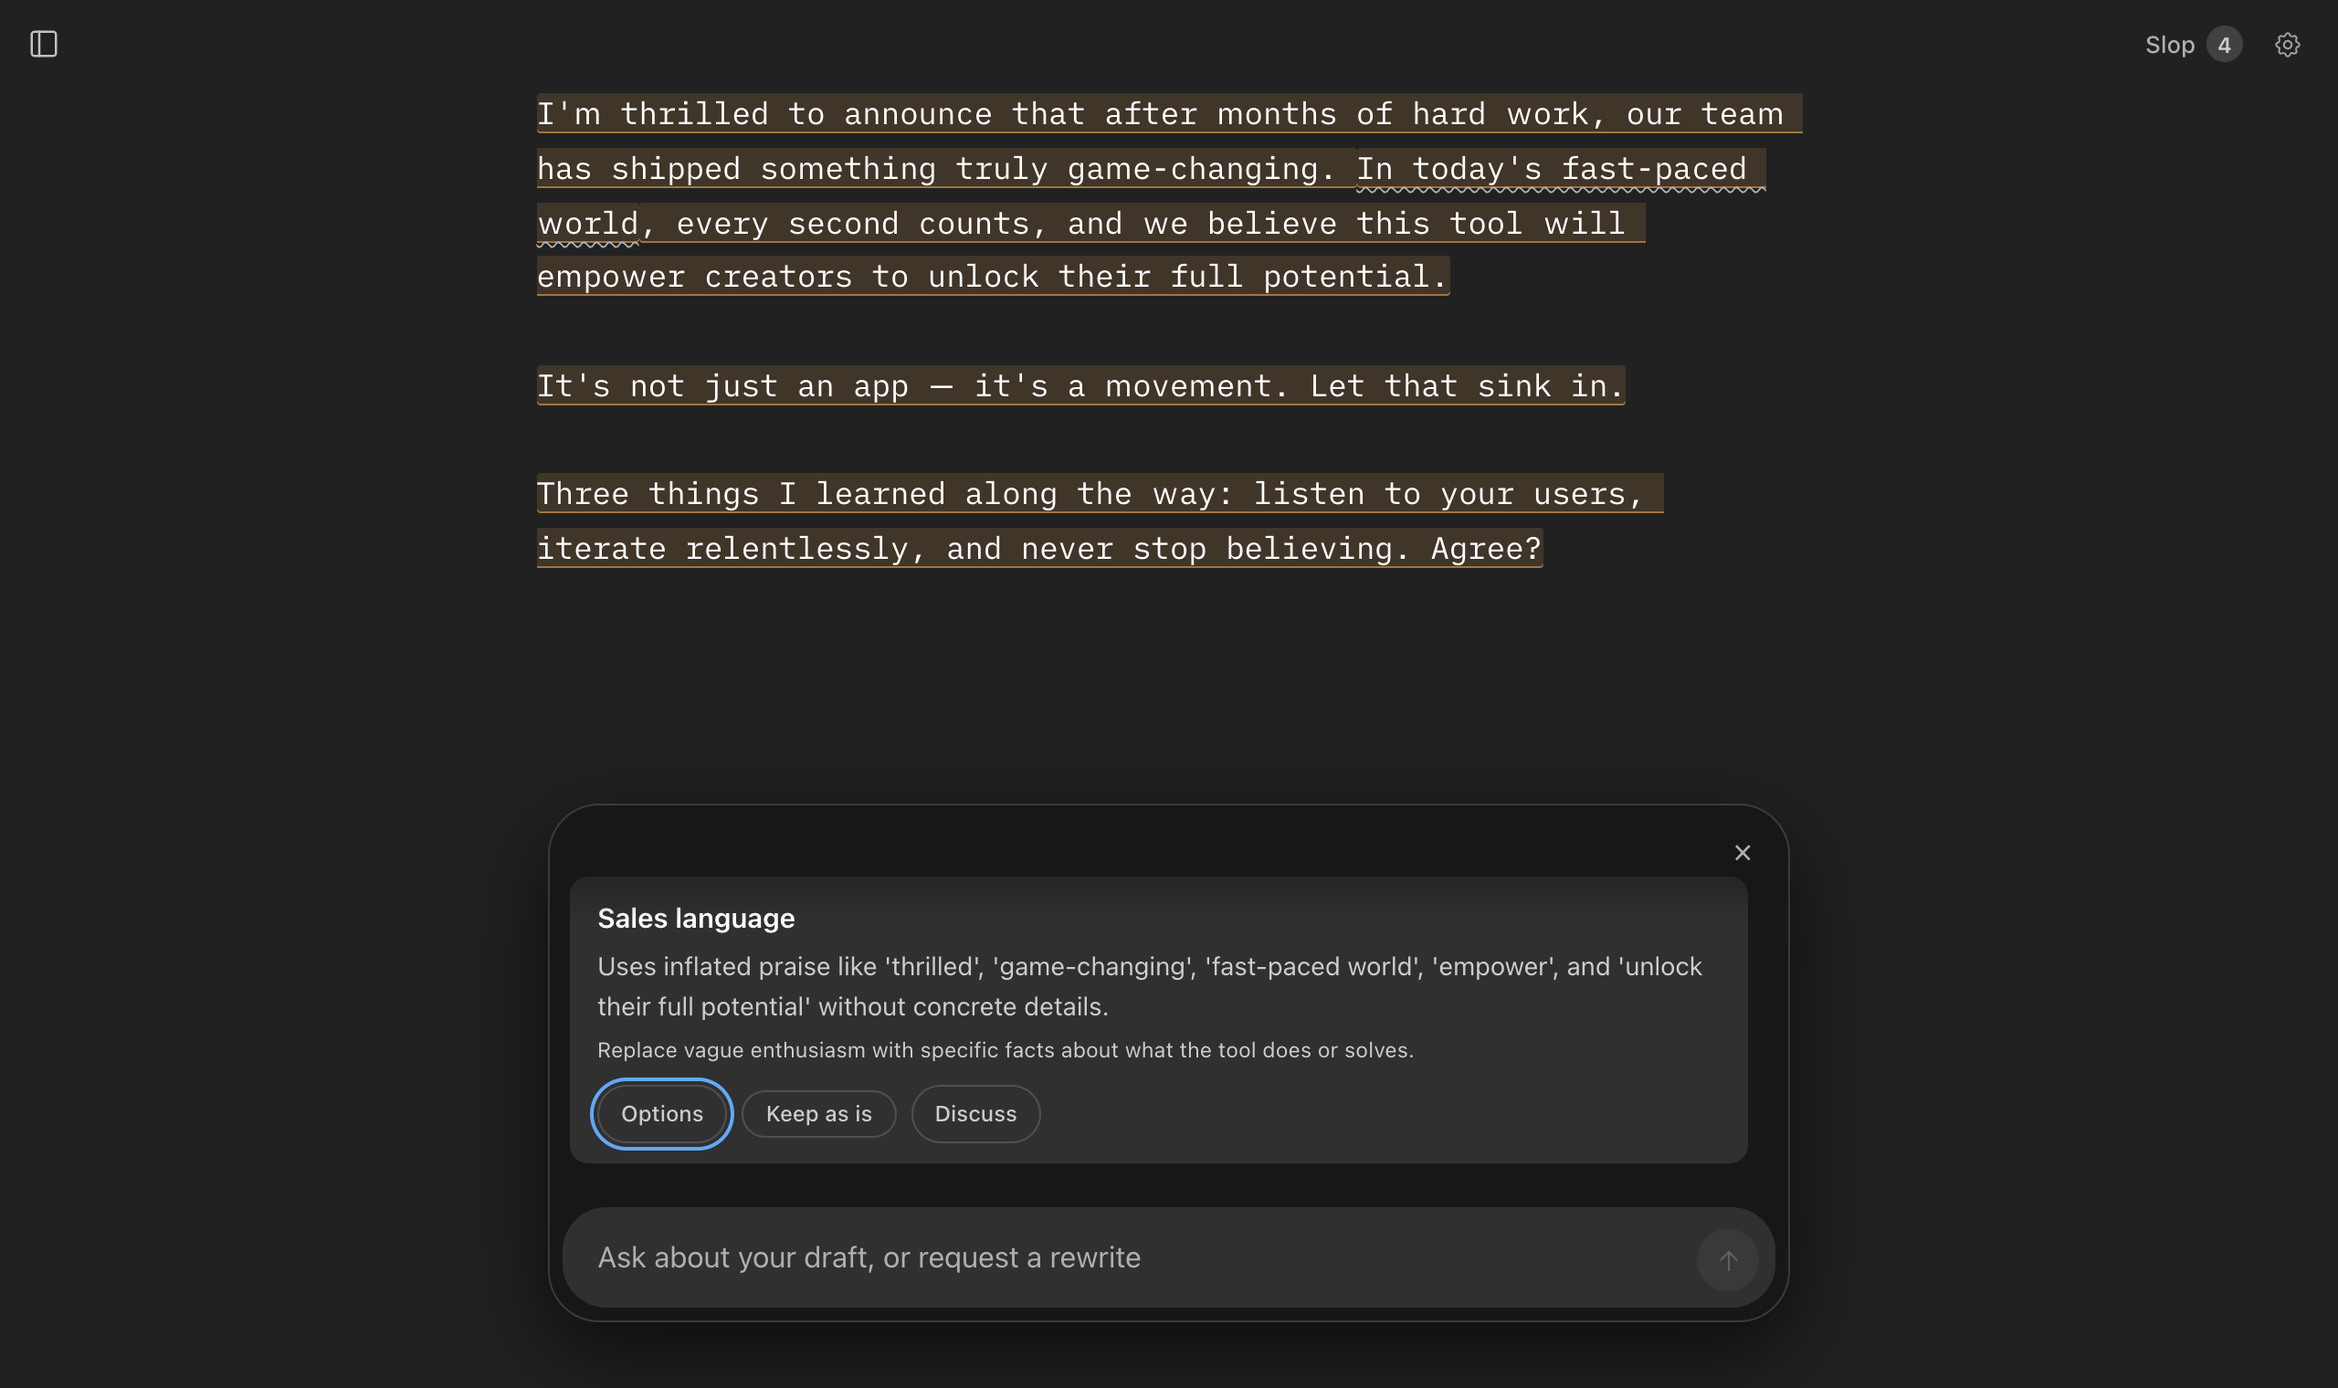
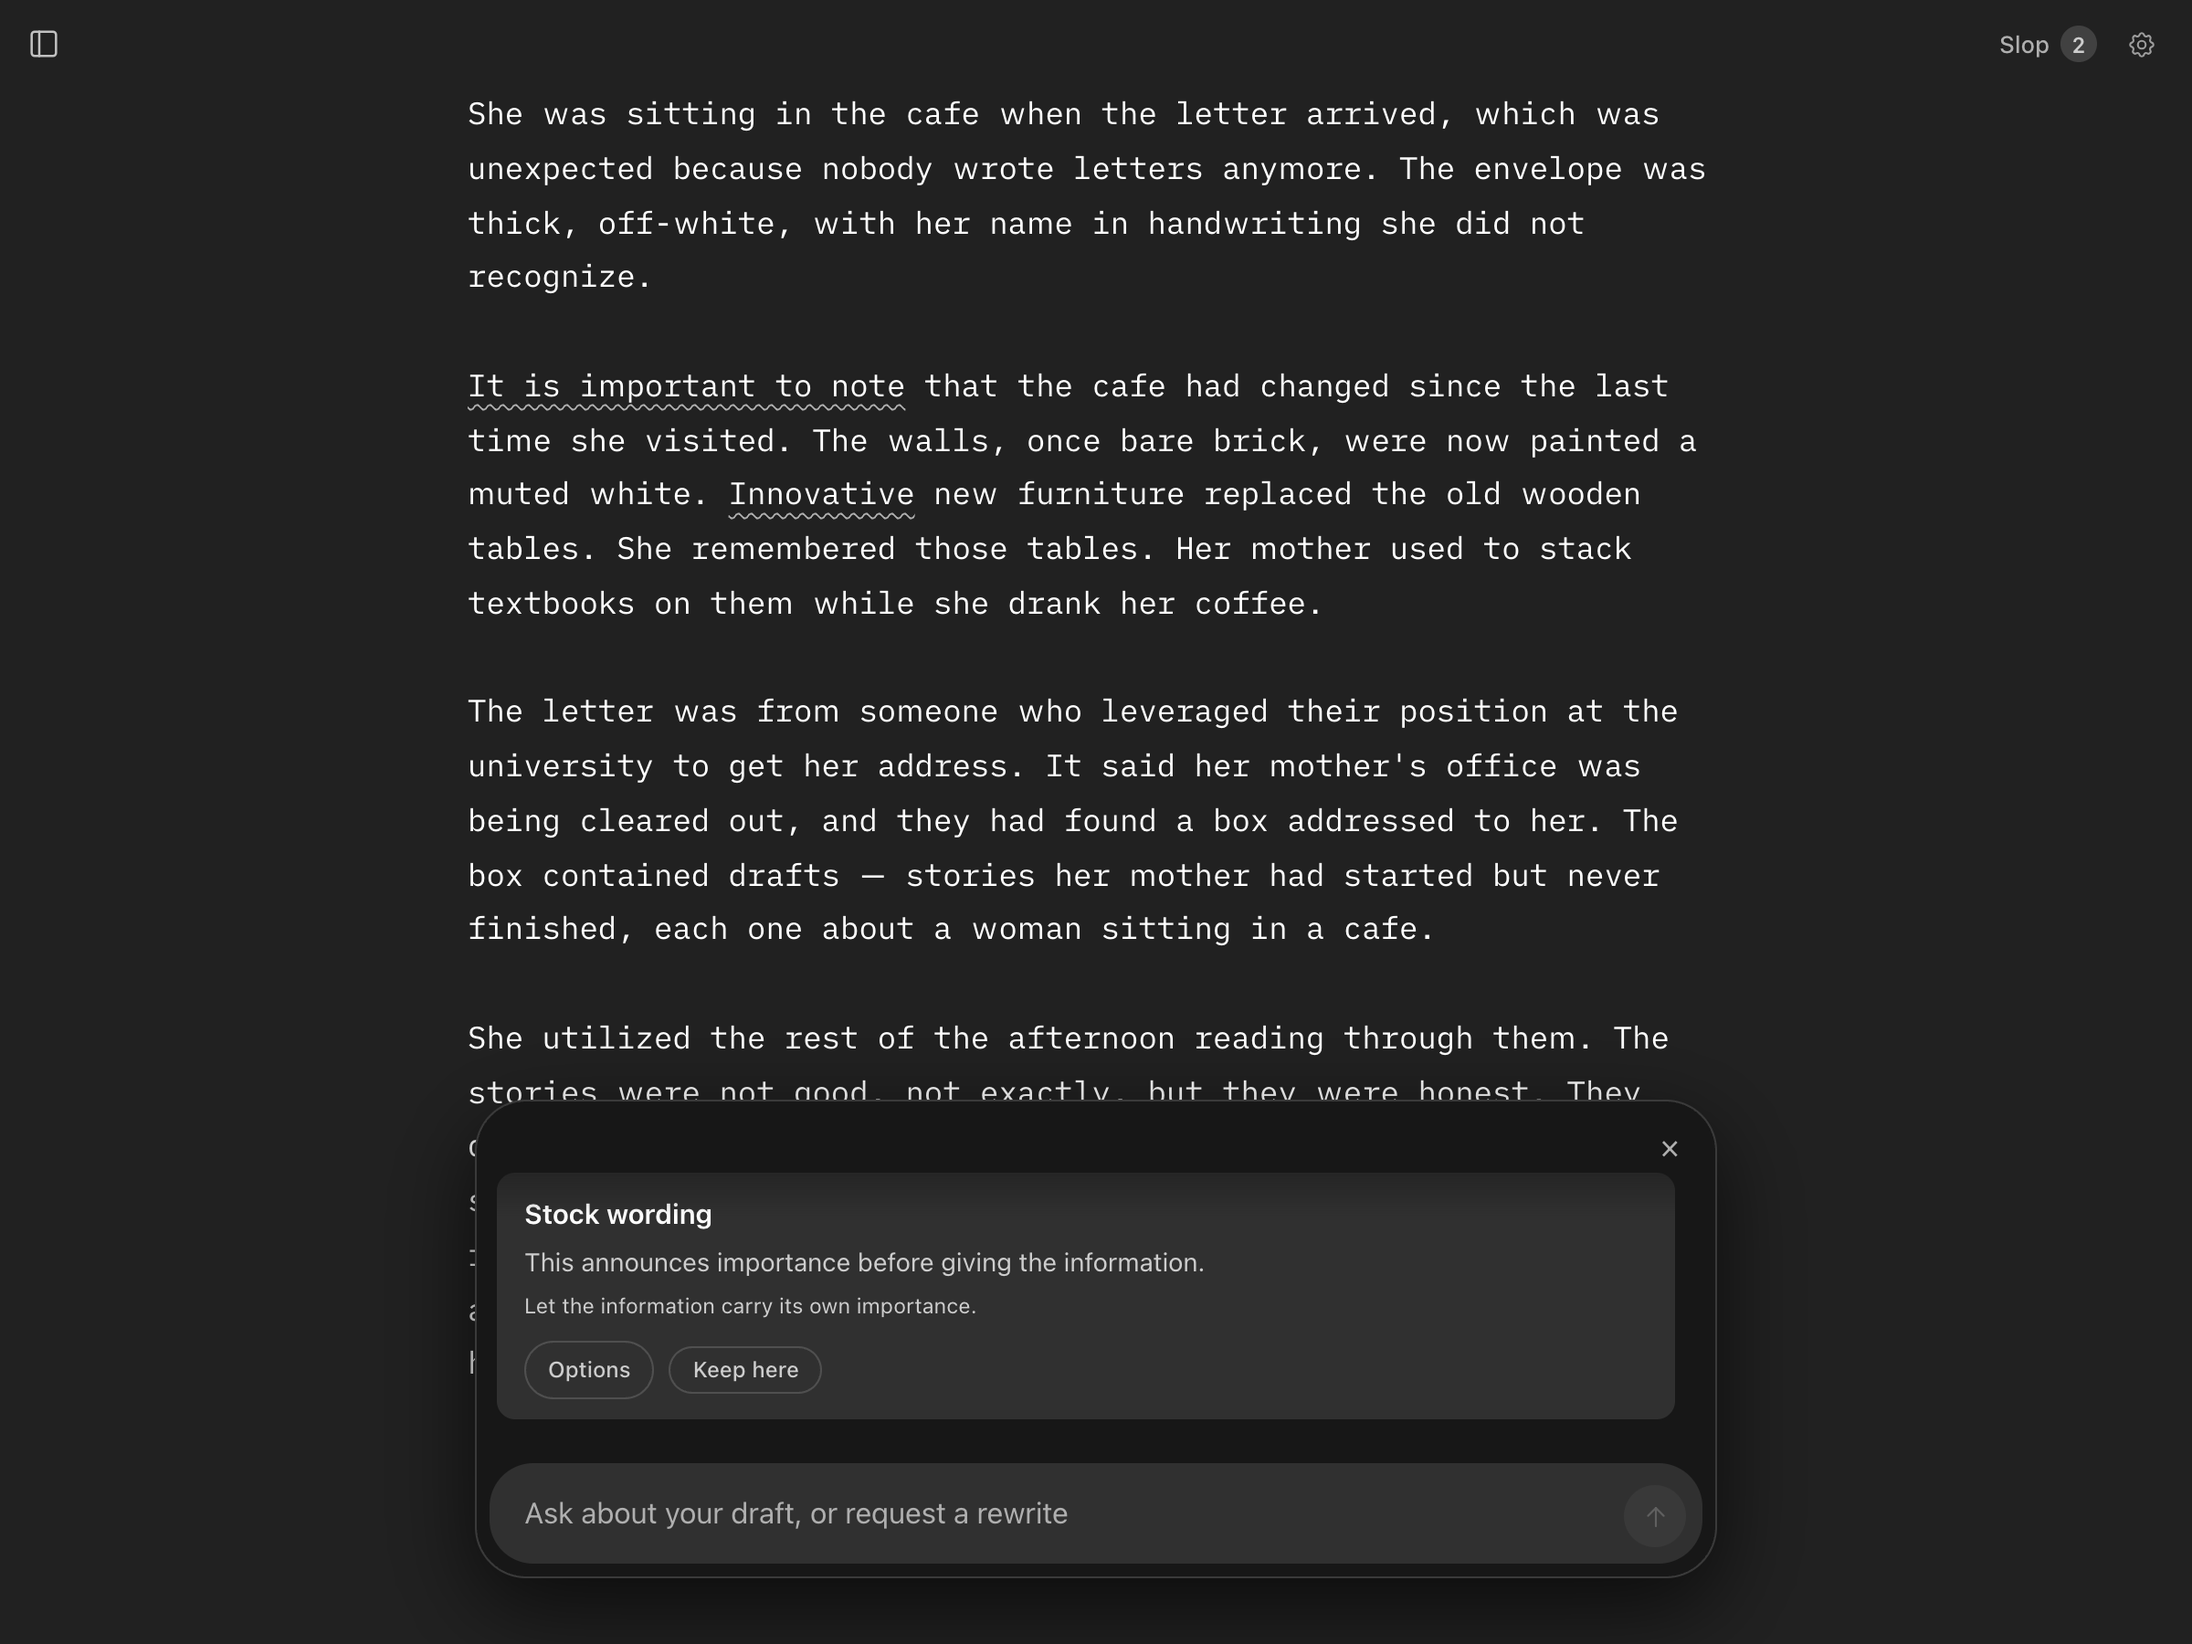
Remove Discuss from finding cards; show variants one at a time
Finding cards now have two buttons: Options and Keep. Discuss is gone
(the composer still opens a conversation about any attached passage).

Rewrite options step through one at a time with Yes / No instead of
showing three cards at once. New README screenshot with literary prose.

diff --git a/src/app.js b/src/app.js
@@ -3818,10 +3818,6 @@ function findingCard(finding, instruction) {
   });
   const actions = chatEl('div', 'finding-actions');
   actions.append(offer, dismiss);
-  const discuss = chatEl('button', 'chat-action', 'Discuss');
-  discuss.type = 'button';
-  discuss.addEventListener('click', () => { const range = findingRange(finding.id); if (range) attachLive(finding, range); chatInput.focus(); });
-  actions.append(discuss);
   if (finding.id === -1) dismiss.textContent = 'Keep here';
   // Variants open inside this card — beside the passage they replace — not
   // in the bottom stream. The stream stays for conversation about the draft.
@@ -3852,62 +3848,53 @@ function variantCards(variants, instruction, target, card = null) {
   const wrap = chatEl('div', 'chat-variants');
   wrap.setAttribute('role', 'list');
   wrap.dataset.targetFrom = String(target.from);
-  ordered.forEach((text, index) => {
+  let current = 0;
+
+  // One option at a time: the writer reads it in place and answers Yes or No.
+  const items = ordered.map((text, index) => {
     const item = chatEl('div', 'variant-card');
     item.setAttribute('role', 'listitem');
-    item.tabIndex = 0;
-    item.setAttribute('role', 'button');
-    item.setAttribute('aria-label', `Apply option ${index + 1}`);
-    const body = chatEl('div', 'variant-text', text);
-    item.append(body);
-    const previewIt = () => {
-      if (wrap.classList.contains('is-spent')) return;
-      if (!replacementTarget(workView.state.doc.toString(), target)) return;
-      clearTimeout(unpreviewTimer);
-      showPlainPreview(text, target);
-    };
-    const unpreview = () => {
-      clearTimeout(unpreviewTimer);
-      unpreviewTimer = setTimeout(clearPlainPreview, UNPREVIEW_DELAY);
-    };
-    item.addEventListener('mouseenter', previewIt);
-    item.addEventListener('mouseleave', unpreview);
-    item.addEventListener('focus', previewIt);
-    item.addEventListener('blur', unpreview);
-    const apply = () => { if (!wrap.classList.contains('is-spent')) applyText(text, target, wrap, item); };
-    item.addEventListener('click', apply);
-    item.addEventListener('keydown', event => {
-      if (event.key === 'Enter' || event.key === ' ') { event.preventDefault(); apply(); }
-      else if (event.key === 'Escape') { event.preventDefault(); unpreview(); item.blur(); workView.focus(); }
-    });
+    item.append(chatEl('div', 'variant-text', text));
+    if (index > 0) item.hidden = true;
     wrap.append(item);
+    return { element: item, text };
   });
 
-  // Three options none of which fit is otherwise a dead end — the passage is
-  // still attached, so ask again with the same instruction.
-  // /idea has no instruction to repeat, so it gets no button.
-  // The usage hint is shown once: after the first applied option the writer
-  // knows the drill, and the row shrinks to the retry icon alone.
-  const hintSeen = (() => { try { return localStorage.getItem('wa-variant-hint') === 'seen'; } catch { return false; } })();
-  if (instruction !== null) {
-    const foot = chatEl('div', 'variant-foot');
-    const again = chatEl('button', 'chat-action is-icon');
-    again.type = 'button';
-    again.setAttribute('aria-label', 'Try again — ask for three more');
-    again.title = 'Try again — ask for three more';
-    again.innerHTML = '<svg viewBox="0 0 20 20" width="15" height="15" aria-hidden="true" fill="none" stroke="currentColor" stroke-width="1.6" stroke-linecap="round" stroke-linejoin="round"><polyline points="19.17 3.33 19.17 8.33 14.17 8.33"/><path d="M17.07 12.5a7.5 7.5 0 1 1-1.77-7.8l3.87 3.63"/></svg>';
-    again.addEventListener('click', () => {
-      if (wrap.classList.contains('is-spent')) return;
-      clearPlainPreview();
-      wrap.remove();
-      requestVariants(instruction, target, card);
-    });
-    if (!hintSeen) foot.append(chatEl('span', 'variant-hint', 'Hover to preview · Click to apply · Esc to dismiss'));
-    foot.append(again);
-    wrap.append(foot);
-  } else if (!hintSeen) {
-    wrap.append(chatEl('div', 'variant-hint', 'Hover to preview · Click to apply · Esc to dismiss'));
-  }
+  const previewCurrent = () => {
+    if (wrap.classList.contains('is-spent')) return;
+    if (!replacementTarget(workView.state.doc.toString(), target)) return;
+    showPlainPreview(items[current].text, target);
+  };
+
+  const foot = chatEl('div', 'variant-foot');
+  const yes = chatEl('button', 'chat-action is-primary', 'Yes');
+  yes.type = 'button';
+  yes.addEventListener('click', () => {
+    if (wrap.classList.contains('is-spent')) return;
+    clearPlainPreview();
+    applyText(items[current].text, target, wrap, items[current].element);
+  });
+  const no = chatEl('button', 'chat-dismiss', 'No');
+  no.type = 'button';
+  no.addEventListener('click', () => {
+    if (wrap.classList.contains('is-spent')) return;
+    clearPlainPreview();
+    if (current < items.length - 1) {
+      items[current].element.hidden = true;
+      current++;
+      items[current].element.hidden = false;
+      previewCurrent();
+    } else {
+      // All declined — clear variants, re-enable Options on the finding card
+      const host = wrap.closest('.chat-entry.is-finding');
+      if (host) restoreFindingCard(host);
+      fadeRemove(wrap);
+      markVariantTarget(null);
+    }
+  });
+  foot.append(yes, no);
+  wrap.append(foot);
+  requestAnimationFrame(previewCurrent);
   return wrap;
 }
 

diff --git a/README.md b/README.md
@@ -8,13 +8,12 @@ Local AI writing enhancer that writes with you. It highlights generic, AI-soundi
 npx stilura
 ```
 
-![Stilura highlighting sales language, a "not X but Y" construction and a forced triple, with a finding card open](docs/screenshot.png)
+![Stilura marking stock wording in a short story, with a finding card explaining why "It is important to note" weakens the sentence](docs/screenshot.png)
 ## How it works
 
 Stilura checks your draft against 20 named patterns in `style.md`: sales language, vague attribution, forced triples, filler openers, stacked qualifiers, and more. A second pass catches structural issues like buried points and broken paragraph promises.
 
-- **Options** — three rewrites for any finding. Hover to preview, click to apply.
-- **Discuss** — chat about a passage or the whole draft.
+- **Options** — rewrites for any finding, shown one at a time. Yes to apply, No to see the next.
 - **Brief** (`/brief`) — tell it who reads this and what it should do. Rewrites aim at that reader; review stays unbiased.
 - **Continuations** — short next-line suggestions appear when you pause. `Tab` to accept, `Escape` to dismiss.
 
